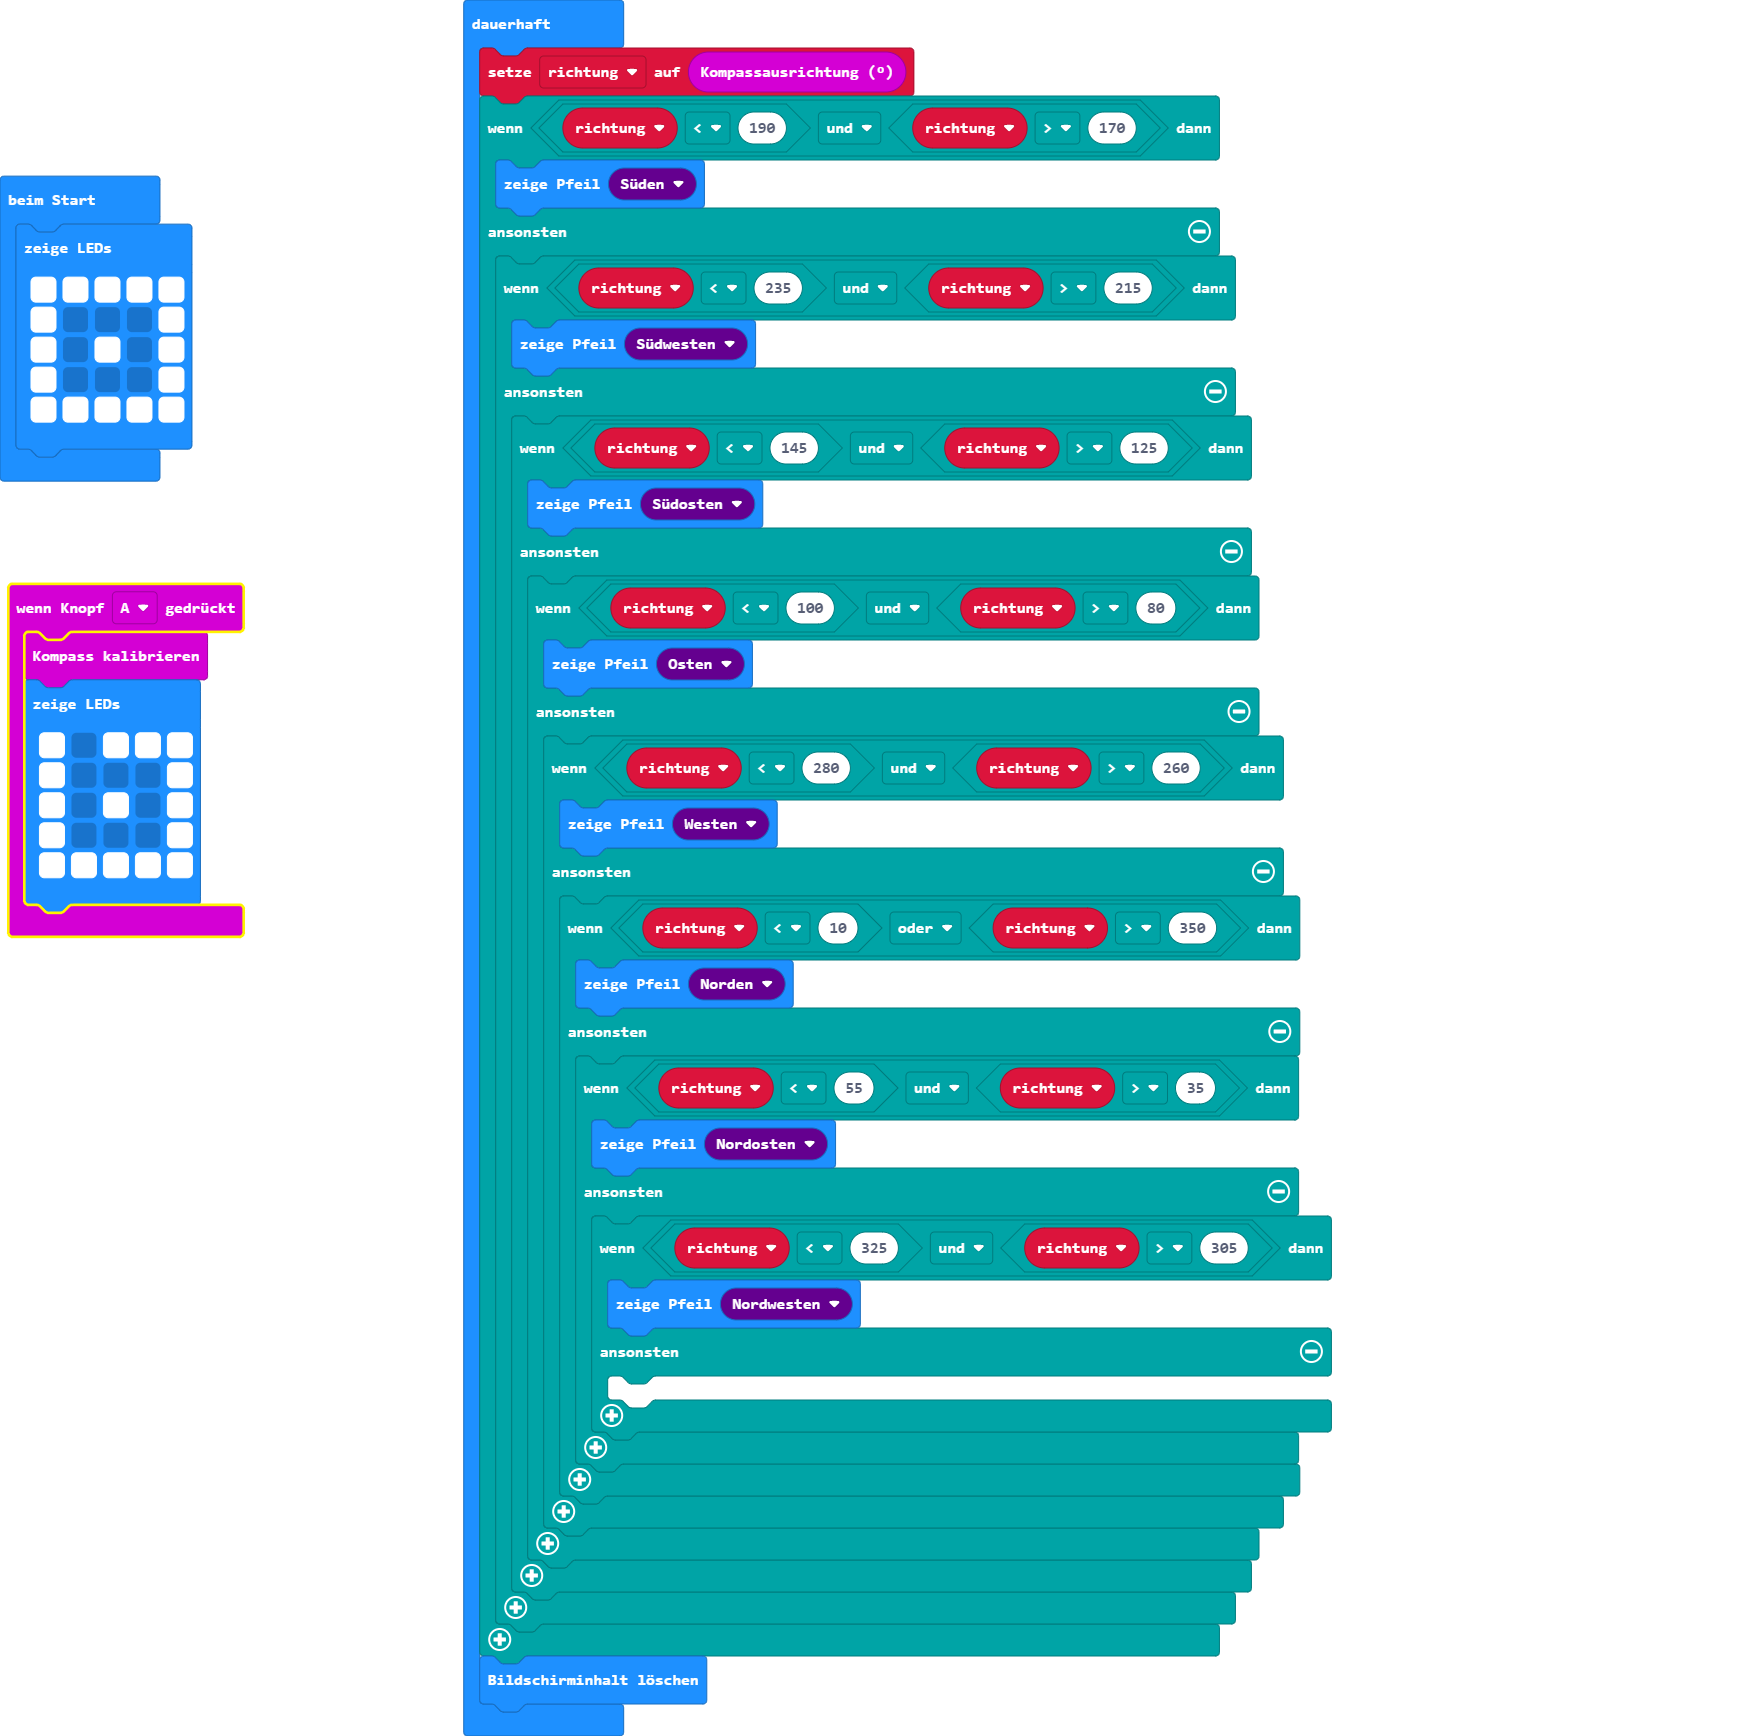
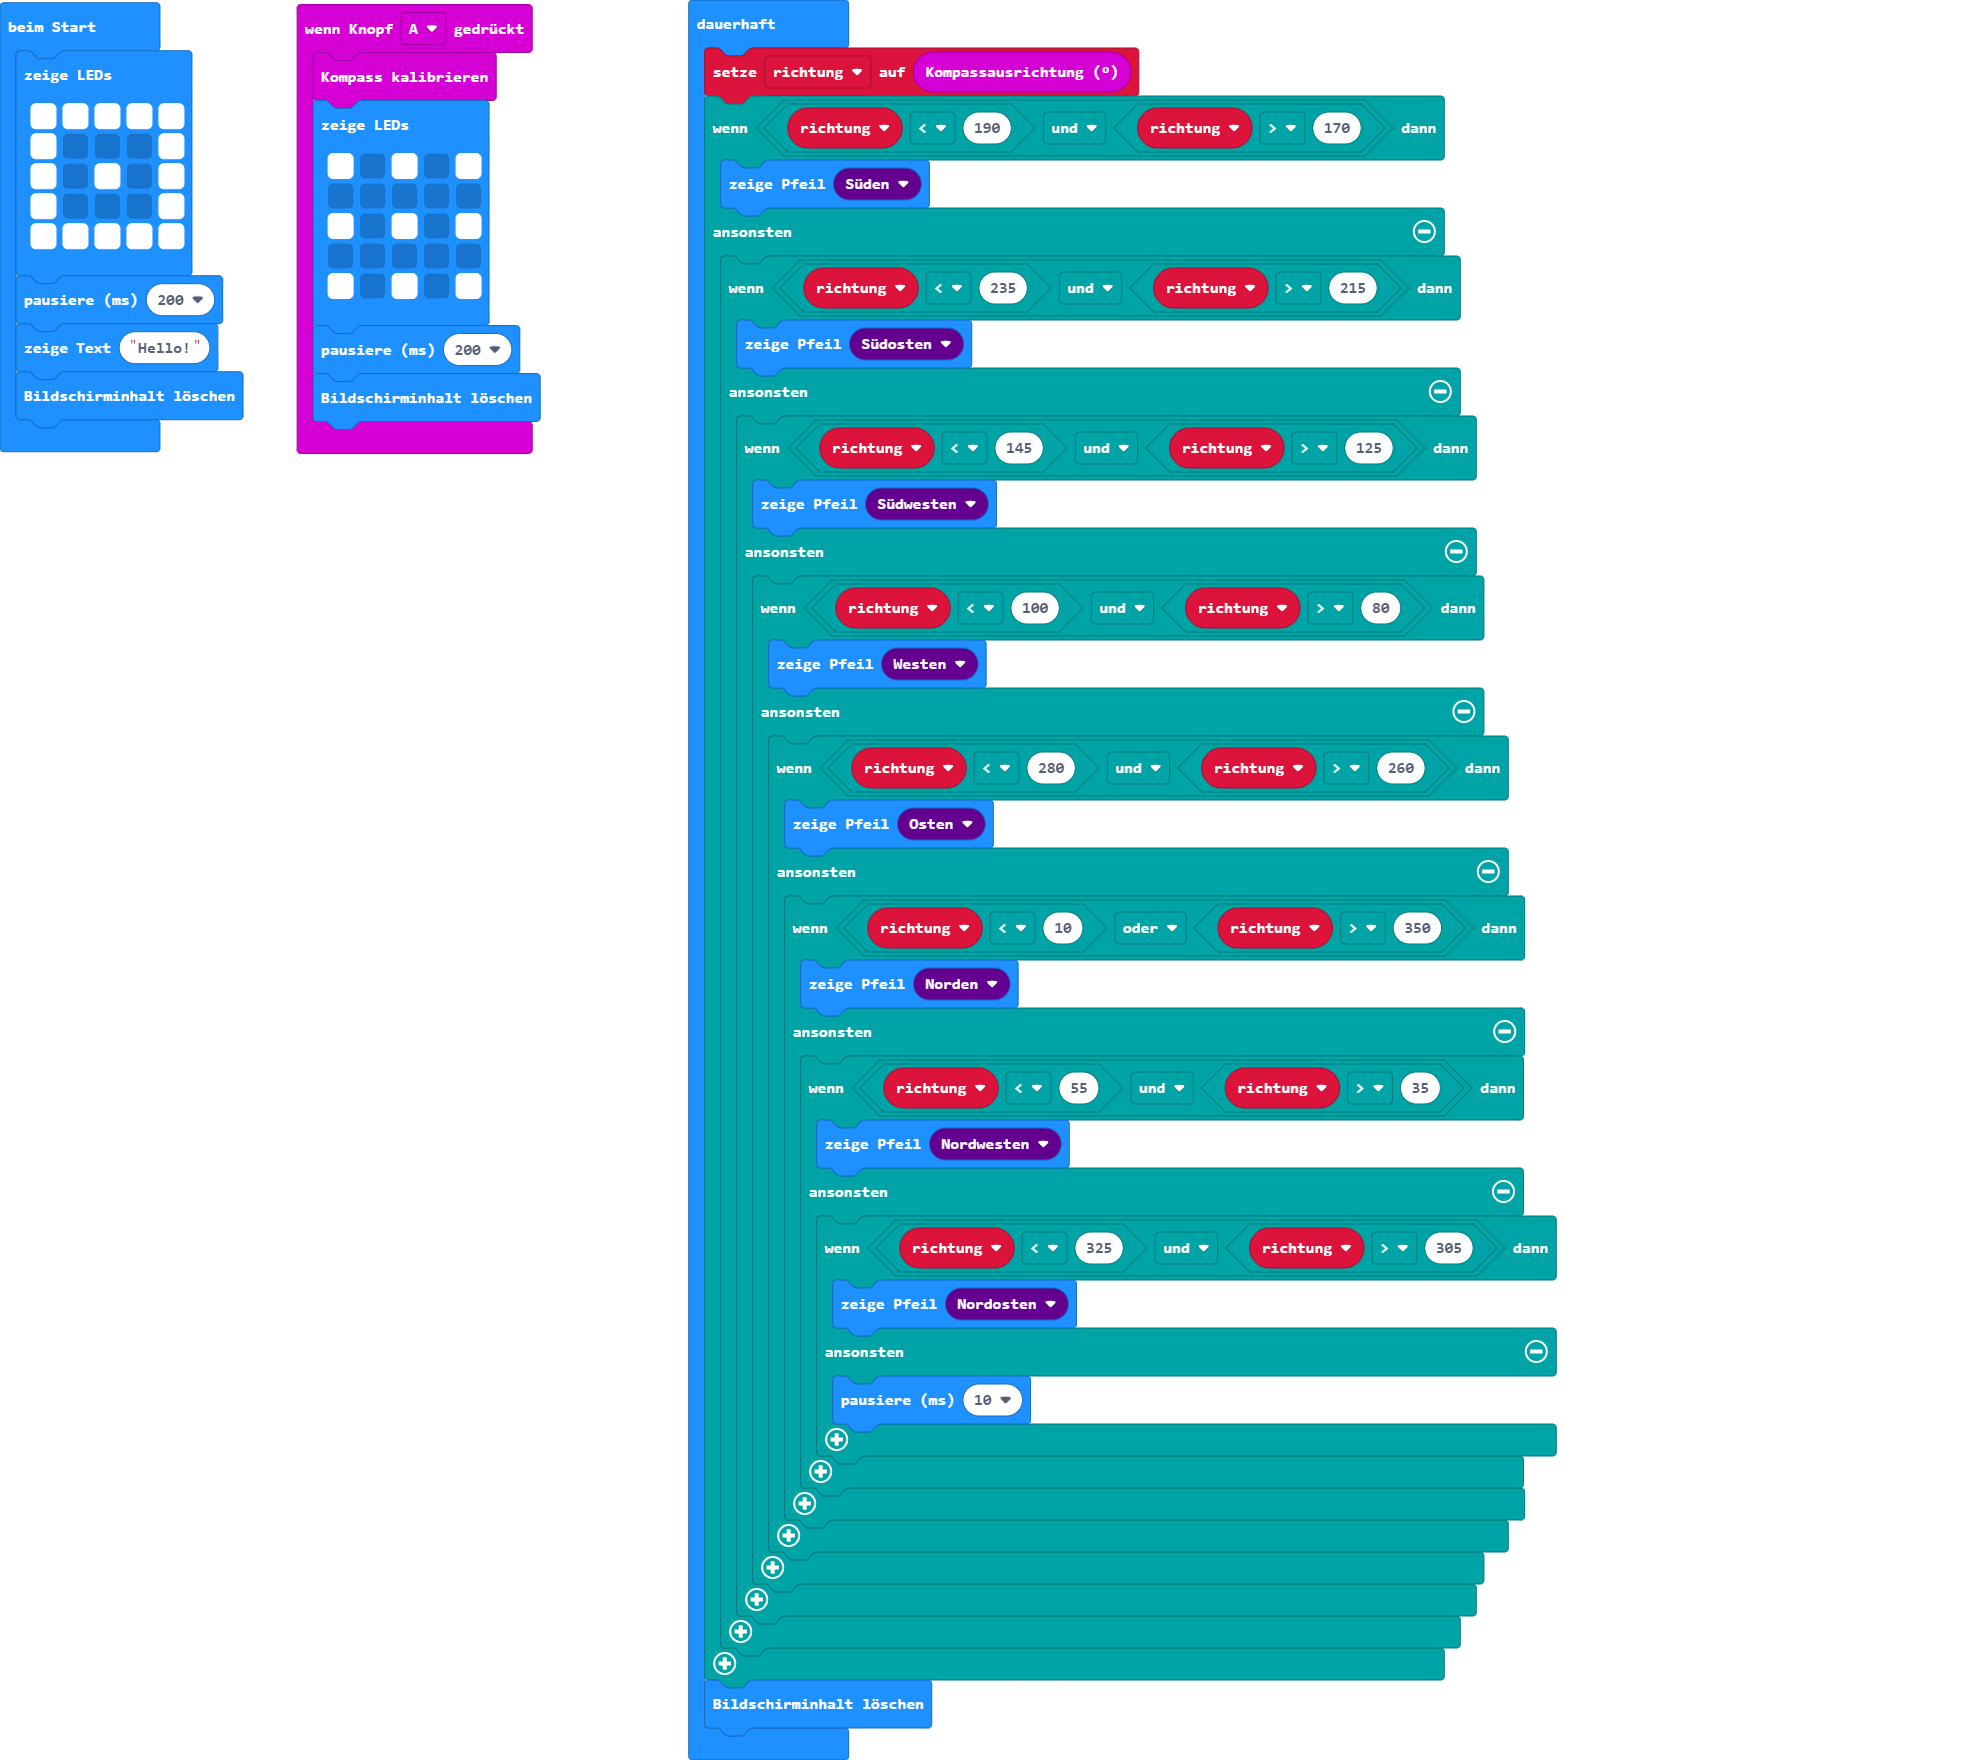
Aktualisiere main.blocks, main.ts

diff --git a/main.ts b/main.ts
@@ -1,12 +1,14 @@
 input.onButtonPressed(Button.A, function () {
     input.calibrateCompass()
     basic.showLeds(`
-        # . # # #
-        # . . . #
         # . # . #
-        # . . . #
-        # # # # #
+        . . . . .
+        # . # . #
+        . . . . .
+        # . # . #
         `)
+    basic.pause(200)
+    basic.clearScreen()
 })
 let richtung = 0
 basic.showLeds(`
@@ -16,33 +18,36 @@ basic.showLeds(`
     # . . . #
     # # # # #
     `)
+basic.pause(200)
+basic.showString("Hello!")
+basic.clearScreen()
 basic.forever(function () {
     richtung = input.compassHeading()
     if (richtung < 190 && richtung > 170) {
         basic.showArrow(ArrowNames.South)
     } else {
         if (richtung < 235 && richtung > 215) {
-            basic.showArrow(ArrowNames.SouthWest)
+            basic.showArrow(ArrowNames.SouthEast)
         } else {
             if (richtung < 145 && richtung > 125) {
-                basic.showArrow(ArrowNames.SouthEast)
+                basic.showArrow(ArrowNames.SouthWest)
             } else {
                 if (richtung < 100 && richtung > 80) {
-                    basic.showArrow(ArrowNames.East)
+                    basic.showArrow(ArrowNames.West)
                 } else {
                     if (richtung < 280 && richtung > 260) {
-                        basic.showArrow(ArrowNames.West)
+                        basic.showArrow(ArrowNames.East)
                     } else {
                         if (richtung < 10 || richtung > 350) {
                             basic.showArrow(ArrowNames.North)
                         } else {
                             if (richtung < 55 && richtung > 35) {
-                                basic.showArrow(ArrowNames.NorthEast)
+                                basic.showArrow(ArrowNames.NorthWest)
                             } else {
                                 if (richtung < 325 && richtung > 305) {
-                                    basic.showArrow(ArrowNames.NorthWest)
+                                    basic.showArrow(ArrowNames.NorthEast)
                                 } else {
-                                	
+                                    basic.pause(10)
                                 }
                             }
                         }
